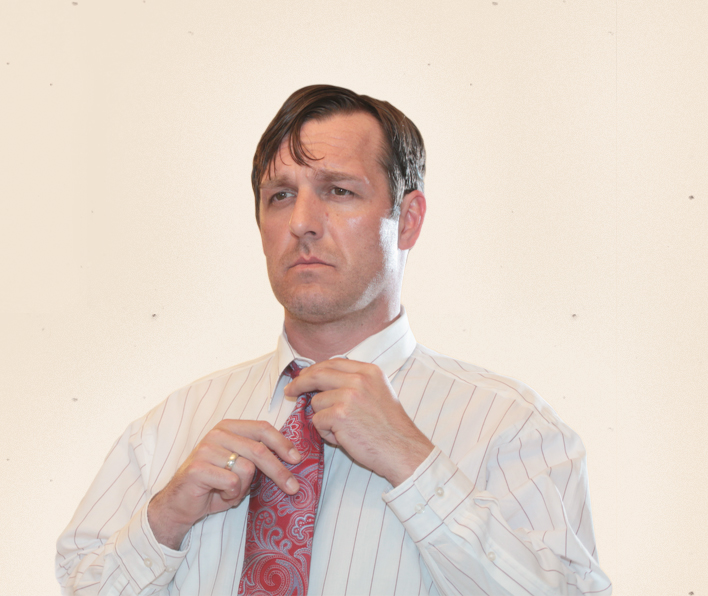
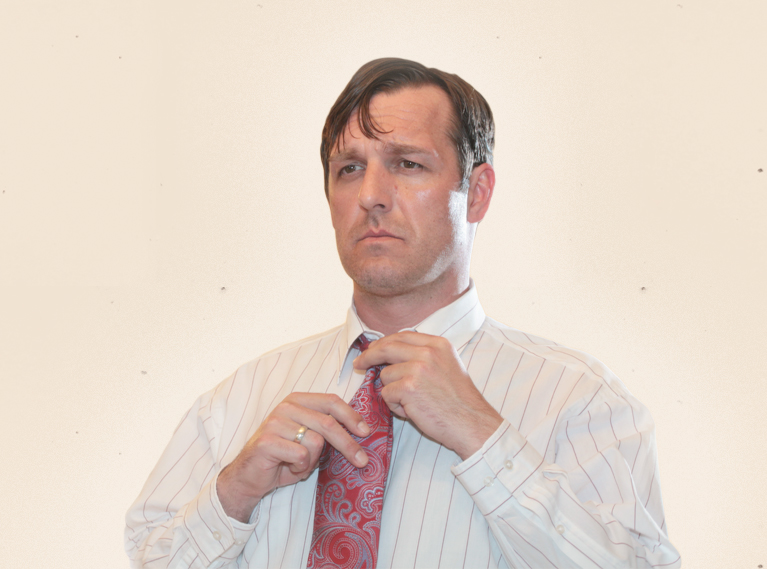
updated theme

diff --git a/sites/all/themes/tenseconds/pages.css b/sites/all/themes/tenseconds/pages.css
@@ -4,7 +4,7 @@
   width: 100px;
   background: url('images/synopsis-header.png') no-repeat 0 0;
 }
-.page-cast-and-crew #page { background: url('images/cast-and-crew-bg.jpg') no-repeat 83% 100%; }
+.page-cast-and-crew #page { background: url('images/cast-and-crew-bg.jpg') no-repeat 88% 100%; }
 .page-cast-and-crew #main h1.title {
   width: 130px;
   background: url('images/cast-and-crew-header.png') no-repeat 0 0;

diff --git a/sites/all/themes/tenseconds/pages.less b/sites/all/themes/tenseconds/pages.less
@@ -13,7 +13,7 @@
 
 .page-cast-and-crew {
   #page {
-    background: url('images/cast-and-crew-bg.jpg') no-repeat 83% 100%;
+    background: url('images/cast-and-crew-bg.jpg') no-repeat 88% 100%;
   }
   #main {
     h1.title {
